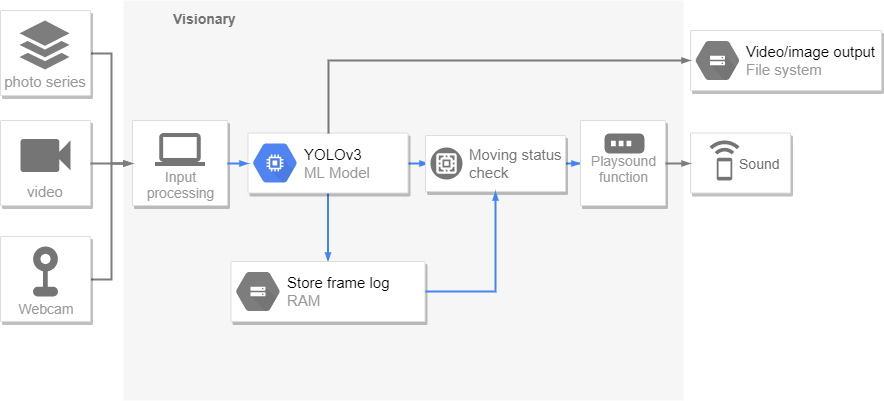
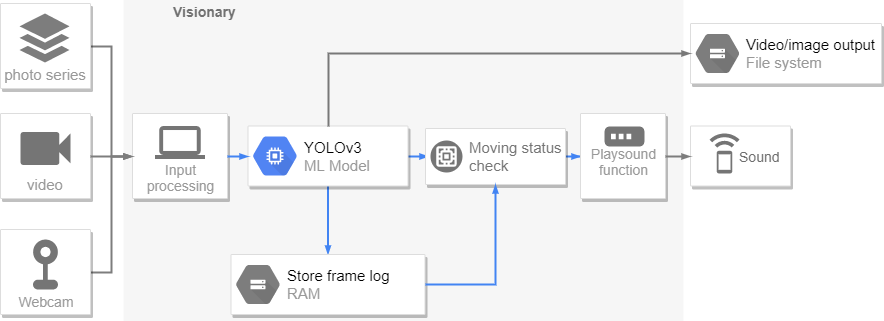
Reduce to 6 pages

diff --git a/main.tex b/main.tex
@@ -99,7 +99,7 @@ tian.xueyan@u.nus.edu(A0177357R), tengda@u.nus.edu(A0177660X), zhao.tianze@u.nus
 \maketitle
 
 \begin{abstract}
-This paper presents our idea of the app: \textit{Visionary}. \textit{Visionary} is a voice guide app for visually handicapped people to assist them in avoiding approaching people on the street. With the help of the phone camera, \textit{Visionary} can capture real-time scenes in front of the user, classify objects and make voice warning to inform the user that some people are approaching. Our app adopts a state-of-the-art object detection Machine Learning model called YOLOv3 whose structure and algorithm are explained in YOLOv3 section. To determine other pedestrians moving direction and output audio, bounding boxes sizes are compared and CMU Flite Text-to-Speech Synthesis Engine is utilized. Additionally, some other plausible Machine Learning algorithms and their comparisons to YOLOv3 are shown in other Machine Learning Methods part. We believe \textit{Visionary} will have an extensive impact on the lives of visually handicapped people and their family in Singapore. 
+This paper presents our idea of the app: \textit{Visionary}, a voice guide app for visually handicapped people to assist them in avoiding approaching people on the street. With the help of camera, \textit{Visionary} can capture real-time images, classify objects and make voice warning to inform the user that some people are approaching. Our app adopts a state-of-the-art object detection Machine Learning model called YOLOv3 whose structure and algorithm are explained in YOLOv3 section. To determine other pedestrians moving direction and output audio, bounding boxes sizes are compared and CMU Flite Text-to-Speech Synthesis Engine is utilized. Additionally, some other plausible Machine Learning algorithms and their comparisons to YOLOv3 are shown in other Machine Learning Methods part. We believe \textit{Visionary} will have an extensive impact on the lives of visually handicapped people and their family in Singapore. 
 \end{abstract}
 
 \section{Background}
@@ -114,28 +114,26 @@ As of March 2017, the population of low-vision and blind residents registered to
 \includegraphics[width=0.85\linewidth,height = 0.5\linewidth]{Figure/demo1.png}
 \caption{\footnotesize{Demonstration result.}}
 \label{fig:demo}
-\vspace{0mm}
+\vspace{-5mm}
 \end{figure}
 %%%%%%%%%%%%%%%%%%%%%%%%%%%%%%%%%%%%%%%%%%%%%%%%
-
-
 \section{App Implementations}
-\textit{Visionary} takes sequential RGB images or video as input and outputs voice reminders for whether there exist any approaching pedestrians.
+\textit{Visionary} takes sequential RGB images or video as input and outputs voice reminders for any approaching pedestrians.
 \begin{itemize}
 \item The input accepts three formats: image series, videos and real-time webcam images.
-\item The output is a voice guide. When other people are moving towards the user, \textit{Visionary} will say "Approaching". Otherwise, our app will not make any voice output. Apart from audio, images and videos with bounding boxes and type labels are also available for reference(Fig.\ref{fig:demo}). 
+\item The output is a voice guide. "Approaching" voice when pedestrian approaching silence otherwise.
 \end{itemize}
 
-\noindent The code implementation can be found in our Github repository\footnote{https://github.com/CoderStellaJ/CS3244-ML-Project}. We choose YOLOv3 as our Machine Learning method to detect pedestrians. This Machine Learning algorithm can detect human objects within a short time period and achieve high accuracy, which is important for a real-time guide system. The pedestrians in input video could be detected correctly without any limitation of video shooting direction, which is a must for our product because pedestrians may come from all directions (Fig.~\ref{fig:arc}). \\
+\noindent The code can be found in our Github repository\footnote{https://github.com/CoderStellaJ/CS3244-ML-Project}. We choose YOLOv3 as our Machine Learning method. This algorithm can detect human objects within a short time period and achieve high accuracy, which is important for a real-time guide system. The pedestrians in input video could be detected correctly without limitation of video shooting direction, which is a must because pedestrians may come from all directions (Fig.~\ref{fig:arc}). \\
 
-\noindent Other than the YOLOv3 model, we design and implement an algorithm to detect objects moving direction. This algorithm compares the bounding box size in the current frame with the average size of the previous five frames. For each of the frame, we find the largest bounding box because we consider it as the nearest person to the user. If either width or height of the bounding box is larger than the average of previous 5 frames, we assume the object is approaching the user. We design this algorithm because the camera may not always capture a full-size human. During our experiments, when the user is approaching another pedestrian, the area of the bounding box may decrease because the legs of the pedestrian are not within the camera's angle of view. However, in this case, the width of the bounding box still increases. Thus comparing box width or height is more reasonable and works better. \\
+\noindent We design and implement an algorithm to detect objects moving direction. It compares the bounding box size in the current frame with the average size of the previous five frames. For each of the frame, we find the largest bounding box because we consider it as the nearest person to the user. If either width or height of the bounding box is larger than the average of previous 5 frames, we assume the object is approaching. We design this algorithm as the camera may not always capture a full-size human. During our experiments, when the user is approaching another pedestrian, the area of the bounding box may decrease because the legs of the pedestrian are not within the camera's angle of view. In this case, the width of the bounding box still increases. Thus, comparing box width or height is more reasonable. \\
 
-\noindent After comparing different ways of transforming text message to sound, we adopt CMU Flite Text-to-Speech Synthesis Engine to generate our sound files based on the text in our final implementation. Those sound files are played to notify the user if \textit{Visionary} predicts someone is approaching. 
+\noindent After comparing different ways of transforming text to sound, we adopt CMU Flite Text-to-Speech Synthesis Engine to generate our sound files. Those sound files are played to notify the user if \textit{Visionary} predicts someone is approaching. 
 %%%%%%%%%%%%%%%%%%%%%%%%%%%%%%%%%%%%%%%%%%%%%%%%
 \begin{figure}[ht]
 \hspace{-6mm}
 \centering
-\includegraphics[width=1.1\linewidth,height = 0.5\linewidth]{Figure/Code_structure_diagram.png}
+\includegraphics[width=1.1\linewidth,height = 0.4\linewidth]{Figure/Code_structure_diagram.png}
 \caption{\footnotesize{System architecture}}
 \label{fig:arc}
 \vspace{-2mm}
@@ -144,20 +142,20 @@ As of March 2017, the population of low-vision and blind residents registered to
 
 \subsection{App Features}
 \begin{itemize}
-\item Camera based image capturing \\
-Open webcam to capture real-time view in front of the user as input.
-\item Object detection and classification \\
-Use our Machine Learning model to detect the person object in input stream.
-\item Moving direction determination \\
-Based on person object detected from input images, we design a direction determination algorithm to determine whether the pedestrian in front is approaching the user and may cause danger.
-\item Voice Guide \\
-Based on object classification and moving direction, output voice guide (any pedestrian approaching)
+\item Camera based image capturing
+%Open webcam to capture real-time view in front of the user as input.
+\item Object detection and classification
+%Use our Machine Learning model to detect the person object in input stream.
+\item Moving direction determination
+%Based on person object detected from input images, we design a direction determination algorithm to determine whether the pedestrian in front is approaching the user and may cause danger.
+\item Voice Guide
+%Based on object classification and moving direction, output voice guide (any pedestrian approaching)
 \end{itemize}
 \subsection{App Algorithm Requirements}
 In order to achieve our goal to help blind people navigate around, our app algorithm needs to model human visual system. Human eyes can capture real-time scenes constantly for a long period of time and the visual system is fast and accurate in detecting objects in scenes, classifying them and estimating their moving directions. Equipped with this ability, humans are able to make proper decisions such as stopping or changing direction to avoid obstacles. However, for detection systems, there is always a trade-off between accuracy and speed. We want neither a highly accurate but over-complex slow model nor a fast but error-prone method. Thus, the chosen machine learning algorithm should satisfy the following requirements:
 \begin{itemize}
     \item Continuously take sequential images or videos as input and generate real-time outputs consisting of object detection and classification.
-    \item Keep a good balance between speed and accuracy when performing the task.
+    \item Keep a good balance between speed and accuracy.
 \end{itemize}
 Based on the above requirements, we finally chose YOLOv3\cite{YOLO} as the core machine learning part of our app. Compared with other Machine Learning detection systems, YOLOv3 can realize real-time detection and in the meanwhile keep relatively high Mean Average Precision(mAP)\cite{YOLO}. More details of qualitative and quantitative comparisons can be found in Other Methods and Experiments and Results section.
 
@@ -184,7 +182,7 @@ The final prediction of YOLOv3 is encoded as a $N*N*(B*(4+1+C))$ tensor.
 
 %%%%%%%%%%%%%%%%%%%%%%%%%%%%%%%%%%%%%%%%%%%%%%%%%%
 \begin{figure}[ht]
-\hspace{-6mm}
+\hspace{-8mm}
 \centering
 \includegraphics[width=0.85\linewidth,height = 1\linewidth]{Figure/yolov3_structure.JPG}
 \caption{\footnotesize{YOLOv3 network for feature extraction.}}
@@ -235,7 +233,7 @@ loss_{final} = loss_{loc} + loss_{obj} + loss_{class}
 
 %%%%%%%%%%%%%%%%%%%%%%%%%%%%%%%%%%%%%%%%%%%%%%%%%%%
 \begin{figure}[ht]
-\hspace{-10mm}
+\hspace{-14mm}
 \centering
 \includegraphics[width=0.85\linewidth,height = 0.5\linewidth]{Figure/yolo_grid.JPG}
 \caption{\footnotesize{YOLOv3 system working process.}}
@@ -264,11 +262,11 @@ YOLOv3 is extremely fast. \cite{YOLOv3} designs the model as a unified single ne
 \noindent Most object detection systems assume that class labels are mutually exclusive. However, in reality, a "pedestrian" could also be a "child". In YOLOv3, logistic classifiers replace softmax function used in other systems so that all class scores $P(Class_{i}|Object)$ don't necessarily sum up to 1 and an object can be multi-labeled\cite{YOLOdev}.
 
 \subsection{YOLOv3 and Our App}
-Based on assessment of several existing object detecting models, we decided to use YOLOv3, as it generally net our expectations and fit the requirement of our proposed application best.\\
+Based on assessment of several existing object detecting models, we decided to use YOLOv3, as it met our expectations and fit the requirements of our proposed application.\\
 \\
-\noindent YOLOv3 is fast. It runs significantly faster than other detection methods with comparable performance. Therefore, it can render real-time object recognition and classification, which is extremely significant in assisting visually impaired people to observe the surroundings. It balances speed and accuracy performance. In our application, since we are only detecting real-world moving human objects, speed dominates performance, and obviously YOLOv3 is the model that excels the others. In terms of detecting objects, YOLOv3 is doing well comparing its performance with human eyes. YOLOv3 is strong in a detection metric of mAP at IOU=0.5. Yet, according to \cite{Human-machine}, it is difficult for even human beings to distinguish a bounding box with IOU of 0.3 from one with IOU 0.5. Hence it is sufficient for YOLOv3 to work with IOU=0.5 and accurately detecting neighboring objects for visually handicapped people.\\
+\noindent YOLOv3 is fast. It runs significantly faster than other detection methods with comparable performance. Therefore, it can render real-time object recognition and classification, which is extremely significant in assisting visually impaired people to observe the surroundings. It balances speed and accuracy performance. In terms of detecting objects, YOLOv3 is doing well comparing its performance with human eyes. YOLOv3 is strong in a detection metric of mAP at IOU=0.5. Yet, according to \cite{Human-machine}, it is difficult for even human beings to distinguish a bounding box with IOU of 0.3 from one with IOU 0.5. Hence it is sufficient for YOLOv3 to work with IOU=0.5 and accurately detecting neighboring objects.\\
 
-\noindent YOLOv3 reasons globally about the image when making predictions\cite{YOLOv3}. Since we are detecting the person with the closest distance to the user, it is good to have a comprehensive overview of the surroundings. It is also easily extensible, as we can further predict objects other than persons in the same frame. Furthermore, it is good that YOLOv3 learns generalizable representations of objects, so it is less likely to break down when applied to new domains or unexpected input given the unpredictable nature of the surrounding environment. \cite{YOLOv3} However, due to hardware limitations, we are not able to produce ideal outputs using our own laptops and phones although the model is theoretically competitive.
+\noindent YOLOv3 reasons globally about the image when making predictions\cite{YOLOv3}. Since we are detecting the person with the closest distance to the user, it is good to have a comprehensive overview of the surroundings. It is also easily extensible, as we can further predict objects other than persons in the same frame. Furthermore, it is good that YOLOv3 learns generalizable representations of objects, so it is less likely to break down when applied to new domains or unexpected input. \cite{YOLOv3} However, due to hardware limitations, we are not able to produce ideal outputs using our own laptops and phones although the model is theoretically competitive.
 
 \subsection{Improvements on Current Model}
 Since our app cares about only the human object closest to the user, there might be inconsistency in the assumption if YOLOv3 uses bounding box. For instance, a person stretching his arms might be more distant but has larger bounding box size than a nearer person standing straight. In order to cope with this issue, alternatives to bounding box method could be attempted. A new approach called Mask R-CNN was proposed by \cite{Mask-RCNN}, which predicts an object mask in parallel with bounding box. Incorporating object mask in the current model would effectively reduce the probability of making wrong assumption, and hence improve application performance.
@@ -278,18 +276,19 @@ This section describes other possible methods and compares them with YOLOv3.
 
 \subsection{R-CNN}
 As shown in Fig.~\ref{fig:r_cnn}, R-CNN performs selective search \footnote{Selective Search is a region proposal algorithm that generates hierarchical grouping of similar regions in terms of color, texture, size and shape compatibility.} on the input images and extracts 2000 bottom-up region proposals. These 2000 candidates are fed into a large convolutional neural network(CNN) that outputs a 4096-dimensional feature vector. The extracted features are fed into an SVM \footnote{Support Vector Machine is a supervised learning method that looks at data and sorts it into one of two categories} to classify the presence of the object within that region proposal. Post-processing is used to refine the bounding boxes and eliminate duplicate detections.\\
-
-\noindent Although R-CNN achieves a mean average precision(mAP) of 53.7\% on PASCAL VOC 2010, the model needs to examine 2000 region proposals and spends around 47s on each test image. Therefore, R-CNN cannot be implemented real-time.
 %%%%%%%%%%%%%%%%%%%%%%%%%%%%%%%%%%%%%%%%%%%%%%%%%%%
 \begin{figure}[ht]
 \hspace{0mm}
 \centering
-\includegraphics[scale = 0.28]{Figure/r_cnn.png}
+\includegraphics[scale = 0.23]{Figure/r_cnn.png}
 \caption{\footnotesize{Architecture of R-CNN.}}
 \label{fig:r_cnn}
 \vspace{0mm}
 \end{figure}
 %%%%%%%%%%%%%%%%%%%%%%%%%%%%%%%%%%%%%%%%%%%%%%%%%%%%%
+
+\noindent Although R-CNN achieves a mean average precision(mAP) of 53.7\% on PASCAL VOC 2010, the model needs to examine 2000 region proposals and spends around 47s on each test image. Therefore, R-CNN cannot be implemented real-time.
+
 \subsection{Fast R-CNN}
 According to Fig.~\ref{fig:fast_2}, Fast R-CNN fits the entire image into a fully convolutional neural network to generate a feature map. It then performs selective search algorithm on the feature map to identify region proposals and uses RoI pooling\footnote{A pooling layer which performs max pooling on inputs of non-uniform sizes and produces a small feature map of fixed size.} layer to reshape them into the required size. The network has two output vectors per RoI: namely softmax probabilities and per-class bounding-box regression offsets.\\
 
@@ -298,10 +297,10 @@ According to Fig.~\ref{fig:fast_2}, Fast R-CNN fits the entire image into a full
 \begin{figure}[ht]
 \hspace{0mm}
 \centering
-\includegraphics[scale=0.25]{Figure/fast_r_cnn.png}
+\includegraphics[scale=0.23]{Figure/fast_r_cnn.png}
 \caption{\footnotesize{Work flow of Fast R-CNN. The architecture is trained end-to-end with a multi-task loss.}}
 \label{fig:fast_2}
-\vspace{0mm}
+\vspace{-2mm}
 \end{figure}
 %%%%%%%%%%%%%%%%%%%%%%%%%%%%%%%%%%%%%%%%%%%%%%%%%%%%%
 
@@ -309,39 +308,29 @@ According to Fig.~\ref{fig:fast_2}, Fast R-CNN fits the entire image into a full
 
 \subsection{Faster R-CNN}
 The distinctive difference between Faster R-CNN and Fast R-CNN is that it does not use selective search to generate region proposals. In Faster R-CNN algorithm, a region proposal network (RPN) is used to create region proposals. \cite{fasterRcnn}\\
-
-\noindent The region proposal network is a convolutional neural network, which takes in feature map as an input. A $3 \times 3$ window with depth $K$ is slid through the feature map, outputting a vector with 256 features for each window. These features are fed into 2 fully-connected layers, box-regression layer and box-classification layer, to compute the boundary box. Then, the output region proposals are fed into the RoI pooling layer in the Fast R-CNN algorithm. (Fig.~\ref{fig:rpn})\\
 %%%%%%%%%%%%%%%%%%%%%%%%%%%%%%%%%%%%%%%%%%%%%%%%%%%%%
 \begin{figure}[ht]
-    \hspace{-14mm}
+    \hspace{-17mm}
     \centering
     \includegraphics[width=0.85\linewidth,height = 0.55\linewidth]{Figure/faster_r_cnn.png}
     \caption{\footnotesize{Region proposal network of Faster R-CNN.}}
     \label{fig:rpn}
     \vspace{0mm}
 \end{figure}
-\\
 %%%%%%%%%%%%%%%%%%%%%%%%%%%%%%%%%%%%%%%%%%%%%%%%%%%%%
+
+\noindent The region proposal network is a convolutional neural network, which takes in feature map as an input. A $3 \times 3$ window with depth $K$ is slid through the feature map, outputting a vector with 256 features for each window. These features are fed into 2 fully-connected layers, box-regression layer and box-classification layer, to compute the boundary box. Then, the output region proposals are fed into the RoI pooling layer in the Fast R-CNN algorithm. (Fig.~\ref{fig:rpn})\\
+
 \noindent 
 Faster R-CNN reduces the object detection time to 0.2 seconds, as the time-consuming step of selective search is replaced by region proposal network. Compared to YOLOv3, it has higher correctness but longer detection time.
 
 \subsection{Deformable Parts Model}
-%%%%%%%%%%%%%%%%%%%%%%%%%%%%%%%%%%%%%%%%%%%%%%%%%%%
-\begin{figure}[ht]
-\hspace{-13mm}
-\centering
-\includegraphics[width=1.0\linewidth,height = 0.3\linewidth]{Figure/DPM_1.png}
-\caption{\footnotesize{Components of DPM model}}
-\label{fig:DPMcomp}
-\vspace{0mm}
-\end{figure}
-%%%%%%%%%%%%%%%%%%%%%%%%%%%%%%%%%%%%%%%%%%%%%%%%%%%%%
-\noindent The Deformable parts model can detect and localize objects with a mixture of the graphical model of deformable parts\cite{DPM}. The model(Fig.~\ref{fig:DPMcomp}) contains three important components, which are root filter, part filter, and one spatial model. First, a root filter constructs a detection window that approximately covers the locations of the objects. Then, smaller parts of the object will be covered by multiple part filters. These part filters are learned at twice the resolution of the root filter. Finally, a spatial model is used to score the locations of part filters relative to the root.\\
+\noindent DPM can detect and localize objects with a mixture of the graphical model of deformable parts\cite{DPM}. The model contains three important components. First, a root filter constructs a detection window that approximately covers the locations of the objects. Then, smaller parts of the object will be covered by multiple part filters. These part filters are learned at twice the resolution of the root filter. Finally, a spatial model is used to score the locations of part filters relative to the root.\\
 
 \noindent Fig.\ref{fig:DPM_2} illustrates how DPM matching process works in details. However, the performance of DPM in some experiments(Fig.~\ref{fig:R_1}) shows that either the speed or the accuracy is worse than YOLOv3.\\
 %%%%%%%%%%%%%%%%%%%%%%%%%%%%%%%%%%%%%%%%%%%%%%%%%%%
 \begin{figure}[ht]
-\hspace{-14mm}
+\hspace{-18mm}
 \centering
 \includegraphics[width=0.85\linewidth,height = 1.0\linewidth]{Figure/DPM_2.png}
 \caption{\footnotesize{DPM maching process}}
@@ -352,19 +341,18 @@ Faster R-CNN reduces the object detection time to 0.2 seconds, as the time-consu
 
 \subsection{RetinaNet}
 Lin et al (\citeyear{retinaNet}) introduced RetinaNet, a one-stage detector with a new-designed focal loss as loss function, ResNet+FPN as the backbone for feature extraction, plus two task-specific sub-networks for classification and bounding box regression.\\
-
 %%%%%%%%%%%%%%%%%%%%%%%%%%%%%%%%%%%%%%%%%%%%%%%%%%%
 \begin{figure}[ht]
-\hspace{-10mm}
+\hspace{-16mm}
 \centering
-\includegraphics[scale = 0.36]{Figure/retinanet.png}
+\includegraphics[scale = 0.2]{Figure/retinanet.png}
 \caption{\footnotesize{RetinaNet architecture}}
 \label{fig:retinanet}
 \vspace{0mm}
 \end{figure}
 %%%%%%%%%%%%%%%%%%%%%%%%%%%%%%%%%%%%%%%%%%%%%%%%%%%%%
 
-\noindent Focal loss is a loss function resembling cross entropy loss, but it is reshaped to down-weight easy example and focus training on hard negative samples. Feature Pyramid Network (FPN) is originally a two-stage detector providing both bottom-up and top-down pathways(Fig.~\ref{fig:retinanet}). Bottom-up pathway extracts features, and top-down pathway combines features with layers in bottom-up pathway. Classification sub-net predicts the probability of the presence of objects at a position and box regression sub-net computes the bounding box.\\
+\noindent Focal loss is a loss function resembling cross entropy loss, but it is reshaped to down-weight easy example and focus training on hard negative samples. Feature Pyramid Network (FPN) is originally a two-stage detector providing both bottom-up and top-down pathways(Fig.~\ref{fig:retinanet}). Bottom-up pathway extracts features, and top-down pathway combines features with layers in bottom-up pathway. Classification sub-net predicts of the presence of objects and box regression sub-net computes the bounding box.\\
 
 \noindent Compared to YOLOv3, RetinaNet has slightly higher prediction accuracy, but longer detection time.
 
@@ -375,12 +363,12 @@ This section shows the results of experiments and quantitative comparisons with 
 
 %%%%%%%%%%%%%%%%%%%%%%%%%%%%%%%%%%%%%%%%%%%%%%%%%%%
 \begin{figure}[ht]
-\hspace{-10mm}
+\hspace{-12mm}
 \centering
 \includegraphics[scale = 0.4]{Figure/Results_1.png}
 \caption{\footnotesize{Quantitative results on the VOC 2007, Picasso, and People-Art Datasets.\footnotemark}}
 \label{fig:R_1}
-\vspace{0mm}
+\vspace{-2mm}
 \end{figure}\footnotetext{F1 score is a measure of a test's accuracy}
 %%%%%%%%%%%%%%%%%%%%%%%%%%%%%%%%%%%%%%%%%%%%%%%%%%%%%
 \noindent According to the result of applying Faster R-CNN, RetinaNet and YOLOv3 on MS CoCo Dataset, RetinaNet has the best accuracy (Fig.~\ref{fig:R_2}). However, viewed from inference time YOLOv3 is much faster than RetinaNet (Fig.~\ref{fig:R_3}).
@@ -401,12 +389,12 @@ This section shows the results of experiments and quantitative comparisons with 
 \includegraphics[scale = 0.5]{Figure/Result_3.jpg}
 \caption{\footnotesize{Inference time on MS CoCo.}}
 \label{fig:R_3}
-\vspace{0mm}
+\vspace{-5mm}
 \end{figure}
 %%%%%%%%%%%%%%%%%%%%%%%%%%%%%%%%%%%%%%%%%%%%%%%%%%%
 
 \subsection{Real-world Dataset}
-Since our app mainly focuses on human object detection, we are keen to find some datasets that involve moving person objects and use them to train and test our algorithm specifically on top of the pre-trained model we have selected. Followed are some relevant real-world datasets that can be useful for training and testing:
+Since our app mainly focuses on human object detection, we are keen to find datasets that involve moving person objects and use them to train and test our algorithm specifically on top of the pre-trained model. Followed are some relevant real-world datasets that can be useful:
 \begin{itemize}
     \item Zero-Occlusion-Object-Tracking-Data-Set\footnote{https://github.com/csbuja/Zero-Occlusion-Object-Tracking-Data-Set}
     \item Scramble Crosswalks\footnote{http://data-lahub.opendata.arcgis.com/datasets/ladot::scramble-crosswalks}
@@ -421,12 +409,8 @@ In the future, \textit{Visionary} can be further developed to provide more relia
 
 \noindent Currently, \textit{Visionary} outputs voice when bounding box size increases. But when a pedestrian is very far from the user, the voice guide should ignore the person even if he is approaching. To resolve this problem and offer a more complete solution, camera needs to take both RGB and depth information. With depth images, the distance from the user to the person can be retrieved and \textit{Visionary} won't warn the user when obstacle is far away. On Apple Store, a tool \textit{Depth Cam - Depth Editor} capturing depth images is found. Thus, we will integrate its functionality to \textit{Visionary}.
 
-
-
-\newpage
-
-\section{Appendix: Team work}
-\subsection{Work Allocation}
+\section{Team work}
+\subsection{Work Allocation and Reflections}
 \begin{table}[ht!]
 \centering
 \resizebox{1\linewidth}{!}
@@ -434,19 +418,13 @@ In the future, \textit{Visionary} can be further developed to provide more relia
 \begin{tabular}{|l|c|}
 \hline
 \textbf{Team Member} &  \textbf{Role}  \\ \hline
-Jin Shuyuan &  Researched on YOLOv3 algorithm \\ 
-    &  and set up project code\\
+Jin Shuyuan &  Researched on YOLOv3 and set up project code\\
 \hline
-Mou Ziyang & Researched on other models \\ 
-& and made comparison with YOLOv3\\ \hline
-Tian Xin & Researched on DPM model \\
- & and compare their performance \\ \hline
-Tian Xueyan & Researched on YOLOv3 algorithm \\ 
- & and datasets \\ \hline
-Wang Tengda & Researched on other models \\
- & and made comparisons with YOLOv3 \\ \hline
-Zhao Tianze & Applied model, developed bounding box \\
- & comparison algorithm and voice output feature\\ \hline
+Mou Ziyang & Researched on other models and made comparison with YOLOv3\\ \hline
+Tian Xin & Researched on DPM model and compare their performance \\ \hline
+Tian Xueyan & Researched on YOLOv3 and datasets \\ \hline
+Wang Tengda & Researched on other models and made comparisons \\ \hline
+Zhao Tianze & Application developer\\ \hline
 \end{tabular}
 }
 \vspace{-2mm}
@@ -454,22 +432,26 @@ Zhao Tianze & Applied model, developed bounding box \\
 \label{tab:time}\vspace{-1em}
 \end{table}
 
-\subsection{Reflections}
+%\subsection{Reflections}
 \begin{itemize}
     \item {\textbf{Jin Shuyuan}}
-After we started to look into the details of YOLOv3, I found that there are lots of fine-tuned parts and modifications in settings which really takes rigorous experiments and lots of experiences.
+Deep Learning takes rigorous experiments and experiences.
 \item{\textbf{Mou Ziyang}}
-It was very exciting to research on various machine learning models and try to understand their rationales. Although it was challenging, finding out how fast these models updated was very intriguing to me. After the project, I had a better overview of machine learning.
+I find it was exciting to find out how fast machine learning models are updated.
 \item{\textbf{Tian Xin}}
-Using machine learning models to solve real world problems is meaningful. During the process of this project, I gained a lot of knowledge about different object detection algorithms.
+Using machine learning models to solve real world problems is meaningful.
 \item{\textbf{Tian Xueyan}}
-The procedure of formulating a new problem, researching on various machine learning models and solving a problem using the chosen one is greatly rewarding for me. I was hence driven to look into details of YOLOv3 as well as other algorithms and I learned how to evaluate models and how to associate models with real-world problems.
+I was driven to look into details of algorithms and I found it rewarding that I learned how to evaluate models and how to associate models with real-world problems.
 \item{\textbf{Wang Tengda}}
-It was a truly fruitful experience researching on various machine learning models, making comparisons and applying them to solve real-world problems. Frankly speaking, it was tough reading Through this project, I got exposed to state-of-the-art ML algorithms and had great fun working as a team 
+A fruitful experience researching on various machine learning models, making comparisons and applying them to solve real-world problems. 
 \item{\textbf{Zhao Tianze}}
-After we discussed about the different applications of machine learning, I noticed that machine learning could be widely used in different field. Compared with other algorithms, machine learning algorithm usually has a high accuracy result and could be optimized to an acceptable short time complexity. After I worked with the YOLOv3 model, I found that the input of this model is agile - it accept different resolution of images as input, also accept video and webcam. It also provided different weight for user to find the best balance between speed and accuracy. These features made the YOLOv3 model suitable for all kind of devices. It is possible to apply it in a portable light-weight device to serve visually handicapped better.
+Compared with other algorithms, machine learning usually produce high accuracy result and could be optimized to an acceptable short time complexity. 
 \end{itemize}
+
 
 \bibliographystyle{aaai}
 \bibliography{References.bib}
+
 \end{document}
+%After we discussed about the different applications of machine learning, 
+%After I worked with the YOLOv3 model, I found that the input of this model is agile - it accept different resolution of images as input, also accept video and webcam. It also provided different weight for user to find the best balance between speed and accuracy. These features made the YOLOv3 model suitable for all kind of devices. It is possible to apply it in a portable light-weight device to serve visually handicapped better.%
